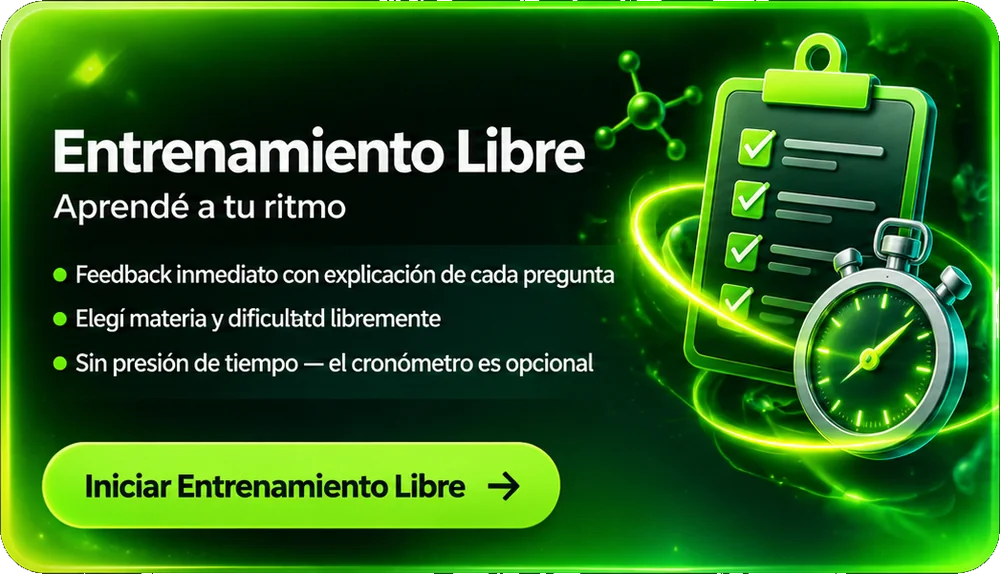
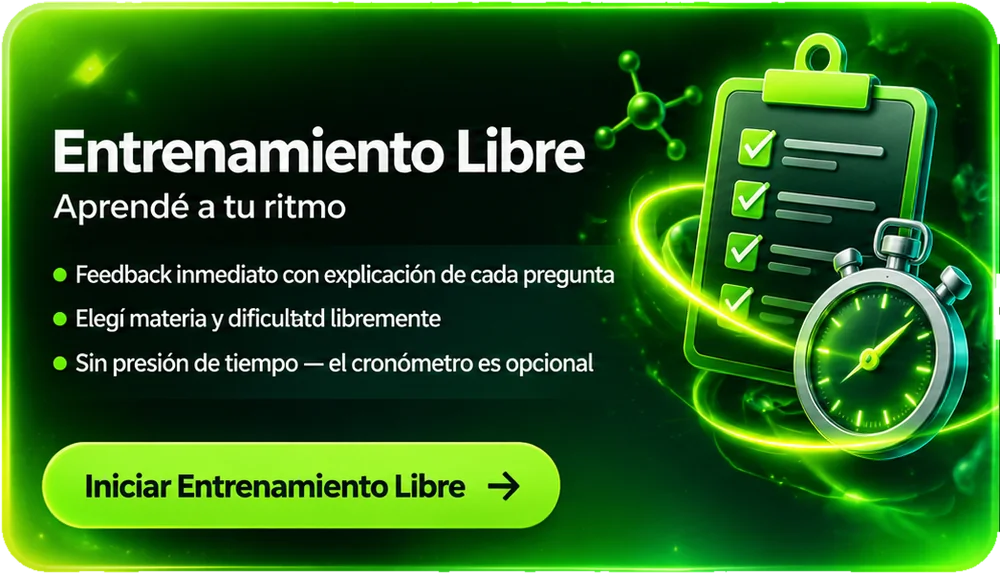
Entrenamientos cards: remove franja preta da borda + diminui tamanho
- Reprocessa os 2 cards com erode de 2px no alpha (tira a bordinha preta fina
  que aparecia no modo claro) sem mexer no interior escuro do card.
- Cards um pouco menores e centralizados (max-w-[520px] mx-auto).

diff --git a/components/simulados-content.tsx b/components/simulados-content.tsx
@@ -78,7 +78,7 @@ function CardArte({ img, onClick, label }: { img: string; onClick: () => void; l
       onMouseMove={handleMove}
       onMouseLeave={handleLeave}
       aria-label={label}
-      className="block w-full [perspective:1000px] focus:outline-none"
+      className="mx-auto block w-full max-w-[520px] [perspective:1000px] focus:outline-none"
     >
       {/* eslint-disable-next-line @next/next/no-img-element */}
       <img
